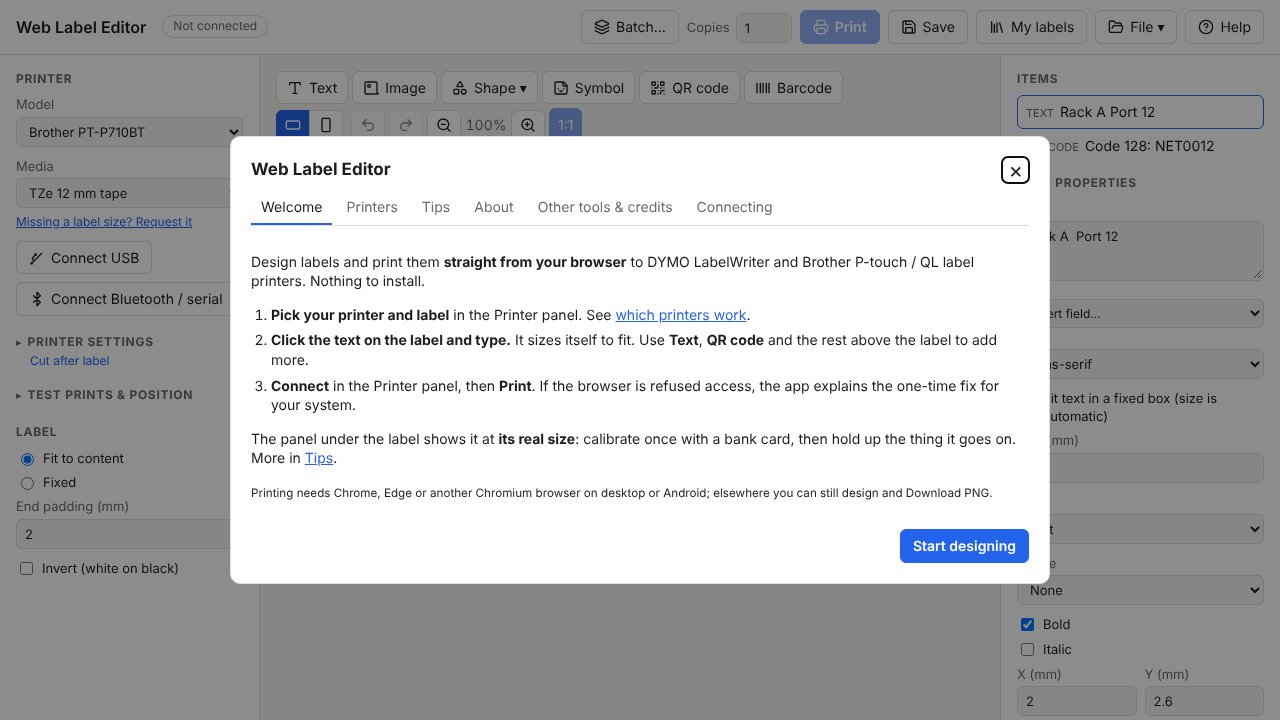
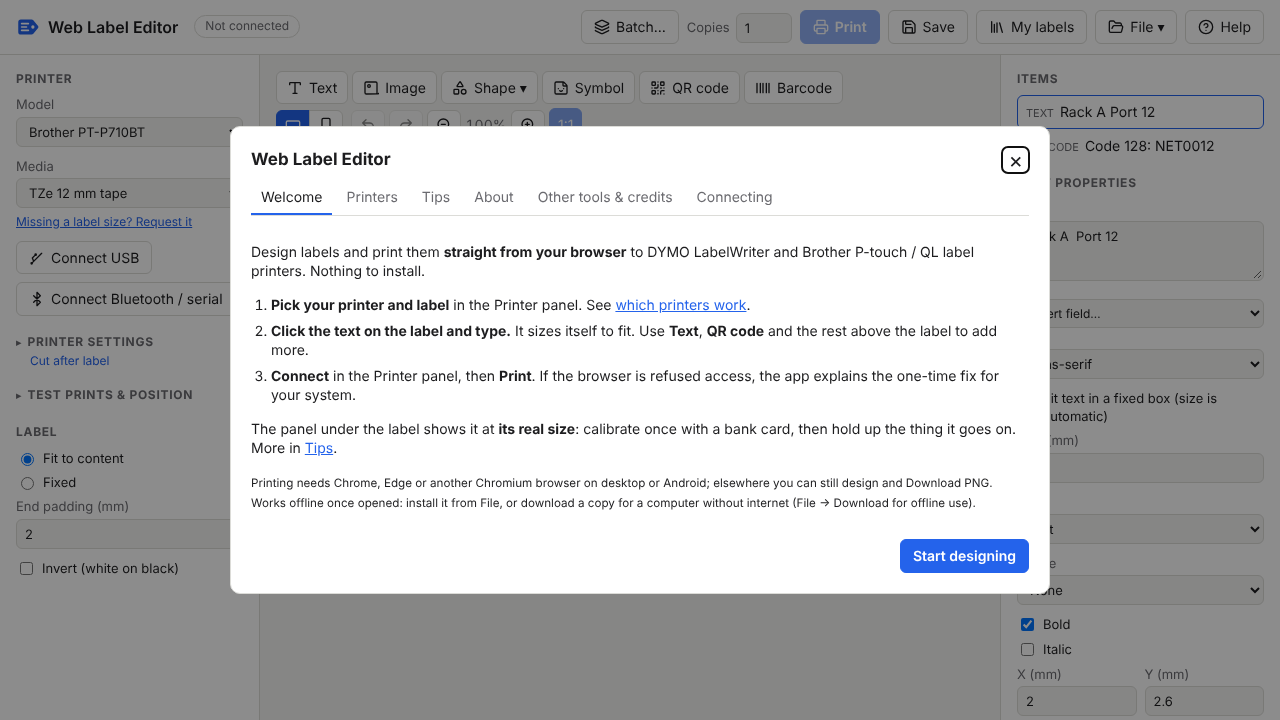
Offline: installable, cached, and a download with start and udev scripts
- The published site caches itself (sw.js, registered on https only):
  after one visit it opens without a network, refreshing in the background
  when online. A manifest makes it installable (File → Install as an app,
  when the browser offers it). sw.js's file list is generated by npm run
  docs from scripts/app-files.mjs and checked by a test.
- File → Download for offline use: web-label-editor.zip, built by npm run
  package and published with the site. It holds the app, start.sh (serves
  it on localhost, the secure page USB needs, on a fixed port so saved
  labels stay, and opens it in Chromium, Chrome, Edge or Brave),
  install-udev-rules.sh (uaccess for DYMO and Brother USB devices, with
  --remove) and READ ME FIRST.txt.
- The deploy now copies the app's own file list, which also fixes the logo
  (icon.svg) missing from the live site.
- Browsers without WebUSB or Web Serial (Firefox, Safari): the welcome
  page, the Printer panel and the Print button say to open the page in
  Chromium, Chrome or Edge to print.
- The printer table notes what has been tried beyond a plain print: 600
  dpi on the LabelWriter 450; not yet 600 dpi or batches on the QL-570.

Claude-Session: https://claude.ai/code/session_01YQFkThD3TEfZZoGyfdA6sY

Changed region(s): [[0.1875, 0.1528, 0.8125, 0.7028], [0.1562, 0.7333, 0.8438, 0.825], [0.0, 0.0306, 0.2188, 0.0611]]

diff --git a/src/about.js b/src/about.js
@@ -22,7 +22,7 @@ const link = (href, text) => el('a', { href, textContent: text, target: '_blank'
 
 // The first thing a new user sees: three steps, and nothing else they must
 // read. Why and how it is built are on the About tab.
-function welcome(go) {
+function welcome(go, canPrint = true) {
   const linkTo = (tab, text) => {
     const a = el('button', { type: 'button', className: 'linklike', textContent: text });
     a.onclick = () => go(tab);
@@ -37,10 +37,14 @@ function welcome(go) {
         ' and the rest above the label to add more.'),
       li(b('Connect'), ' in the Printer panel, then ', b('Print'), '. If the browser is refused access, the app explains the '
         + 'one-time fix for your system.')),
+    canPrint ? null : p(el('strong', { className: 'warn', textContent: 'This browser can\'t reach printers.' }),
+      ' Open this page in Chromium, Chrome or Edge to print; Firefox and Safari have no WebUSB or Web Serial. '
+      + 'You can design here and download a PNG.'),
     p('The panel under the label shows it at ', b('its real size'), ': calibrate once with a bank card, then hold up '
       + 'the thing it goes on. More in ', linkTo('tips', 'Tips'), '.'),
     p(el('small', {}, 'Printing needs Chrome, Edge or another Chromium browser on desktop or Android; elsewhere you can '
-      + 'still design and Download PNG.')),
+      + 'still design and Download PNG. Works offline once opened: install it from File, or download a copy for a '
+      + 'computer without internet (File → Download for offline use).')),
   ];
 }
 
@@ -235,7 +239,7 @@ export function openAbout(dialog, ctx) {
     close.onclick = () => dialog.close();
     const done = el('button', { type: 'button', className: 'primary', textContent: tab === 'welcome' ? 'Start designing' : 'Close' });
     done.onclick = () => dialog.close();
-    const body = { welcome: () => welcome(go), printers: () => printers(ctx.models), tips, about: () => about(go), others }[tab]();
+    const body = { welcome: () => welcome(go, ctx.canPrint !== false), printers: () => printers(ctx.models), tips, about: () => about(go), others }[tab]();
     dialog.replaceChildren(
       el('header', {}, el('h2', { textContent: 'Web Label Editor' }), close),
       tabs,

diff --git a/src/app.js b/src/app.js
@@ -1205,7 +1205,10 @@ function buildSetup() {
   }).slice(0, transport ? 1 : undefined));
   $('btn-detect').hidden = !(m.queryStatus && transport);
   $('btn-print').disabled = !transport;
-  $('btn-print').title = transport ? '' : 'Connect the printer first (in the Printer panel)';
+  const canPrint = support.usb || support.serial;
+  $('browser-note').hidden = canPrint;
+  $('btn-print').title = transport ? '' : canPrint ? 'Connect the printer first (in the Printer panel)'
+    : 'This browser can\'t reach printers: open the page in Chromium, Chrome or Edge to print';
 }
 
 function buildAdjust() {
@@ -3602,6 +3605,26 @@ function wire() {
 if (!support.usb && !support.serial) {
   showBanner('This browser cannot talk to printers directly (WebUSB / Web Serial need Chrome, Edge or another Chromium browser). You can still design labels and download them as PNG.');
 }
+
+// Offline: the published site caches itself (sw.js) so it opens without a
+// network after the first visit, and can be installed as an app. Not on
+// plain http (a local copy or development), which has its files already.
+if ('serviceWorker' in navigator && location.protocol === 'https:') {
+  navigator.serviceWorker.register('sw.js').catch(() => {});
+}
+let installPrompt = null;
+window.addEventListener('beforeinstallprompt', (e) => {
+  e.preventDefault();
+  installPrompt = e;
+  $('btn-install').hidden = false;
+});
+$('btn-install').onclick = async () => {
+  if (!installPrompt) return;
+  installPrompt.prompt();
+  await installPrompt.userChoice.catch(() => {});
+  installPrompt = null;
+  $('btn-install').hidden = true;
+};
 // ---------- My labels and print history ----------
 
 // A small preview image of a design, for the library and history.
@@ -3681,7 +3704,7 @@ function showLibrary(tab) {
 }
 
 function showAbout(tab) {
-  openAbout($('about-dialog'), { models: MODELS, tab, onConnectHelp: () => showUsbHelp() });
+  openAbout($('about-dialog'), { models: MODELS, tab, canPrint: support.usb || support.serial, onConnectHelp: () => showUsbHelp() });
 }
 
 // Welcome page on the first visit.

diff --git a/sw.js b/sw.js
@@ -1,0 +1,70 @@
+// SPDX-License-Identifier: GPL-3.0-or-later
+// Offline copy of the app: every file is cached on the first visit, and
+// served from the cache from then on, refreshed in the background whenever
+// the network is there (so an update shows on the next visit).
+
+const CACHE = 'web-label-editor';
+
+// app-files:start: generated by `npm run docs`; do not edit by hand
+const FILES = [
+  'index.html',
+  'style.css',
+  'icon.svg',
+  'manifest.webmanifest',
+  'src/about.js',
+  'src/app.js',
+  'src/calibration.js',
+  'src/catalog.js',
+  'src/codes/barcode.js',
+  'src/codes/qr.js',
+  'src/compat.js',
+  'src/credits.js',
+  'src/fields.js',
+  'src/help.js',
+  'src/icons.js',
+  'src/layout.js',
+  'src/library.js',
+  'src/lucide.js',
+  'src/others.js',
+  'src/printers/brother-ptouch.js',
+  'src/printers/brother-ql.js',
+  'src/printers/bytes.js',
+  'src/printers/dymo-labelwriter.js',
+  'src/printers/generic.js',
+  'src/printers/models.js',
+  'src/recfile.js',
+  'src/render.js',
+  'src/report.js',
+  'src/rolls.js',
+  'src/screen.js',
+  'src/transport.js',
+  'src/undo.js',
+  'catalog/media.rec',
+  'catalog/printers.rec',
+];
+// app-files:end
+
+self.addEventListener('install', (event) => {
+  event.waitUntil(caches.open(CACHE).then((cache) => cache.addAll(['./', ...FILES])).then(() => self.skipWaiting()));
+});
+
+self.addEventListener('activate', (event) => {
+  event.waitUntil(self.clients.claim());
+});
+
+self.addEventListener('fetch', (event) => {
+  const { request } = event;
+  if (request.method !== 'GET' || new URL(request.url).origin !== self.location.origin) return;
+  event.respondWith(caches.open(CACHE).then(async (cache) => {
+    const cached = await cache.match(request, { ignoreSearch: true });
+    const fresh = fetch(request).then((response) => {
+      if (response.ok) cache.put(request, response.clone());
+      return response;
+    });
+    if (cached) {
+      event.waitUntil(fresh.catch(() => {}));
+      return cached;
+    }
+    return fresh;
+  }));
+});

diff --git a/index.html b/index.html
@@ -6,6 +6,8 @@
   <title>Web Label Editor</title>
   <meta name="description" content="Design labels and print them straight to DYMO LabelWriter and Brother P-touch printers from the browser, including continuous rolls.">
   <link rel="icon" href="icon.svg" type="image/svg+xml">
+  <link rel="manifest" href="manifest.webmanifest">
+  <meta name="theme-color" content="#2463eb">
   <link rel="stylesheet" href="style.css">
 </head>
 <body>
@@ -29,6 +31,8 @@
           <button id="btn-export" role="menuitem" data-icon="saveFile">Save file…</button>
           <button id="btn-lib-saveas" role="menuitem" data-icon="labels">Save as new label…</button>
           <button id="btn-png" role="menuitem" data-icon="png">Download PNG</button>
+          <button id="btn-install" role="menuitem" data-icon="saveFile" hidden>Install as an app</button>
+          <a id="btn-offline" role="menuitem" data-icon="saveFile" href="https://mofosyne.github.io/web-label-editor/web-label-editor.zip" download>Download for offline use (.zip)</a>
         </div>
       </details>
       <input id="import-file" type="file" accept="application/json,.json" hidden>
@@ -57,6 +61,9 @@
       </div>
       <div class="row" id="connect-buttons"></div>
       <button id="btn-detect" hidden>Detect loaded tape</button>
+      <p id="browser-note" class="note browser-note" hidden>This browser can't reach printers: open this page in
+        <strong>Chromium, Chrome or Edge</strong> to print (Firefox and Safari have no WebUSB or Web Serial).
+        You can still design labels and download a PNG.</p>
 
       <details id="printer-settings" class="section">
         <summary><h2>Printer settings</h2> <span id="printer-summary" class="state"></span></summary>

diff --git a/style.css b/style.css
@@ -190,7 +190,7 @@ dialog.help .row { justify-content: flex-end; margin: 0; }
 .toolbar > button { padding: 6px 10px; }
 /* Icons in buttons (Lucide, see lucide.js), before the name if there is one. */
 svg.ico { width: 16px; height: 16px; vertical-align: -3px; flex: none; }
-button:not(.icon) > svg.ico, summary > svg.ico { margin-right: 6px; }
+button:not(.icon) > svg.ico, summary > svg.ico, .menu-list a > svg.ico { margin-right: 6px; }
 .icon > svg.ico { display: block; margin: 0 auto; }
 dialog.symbols .grid button > svg.ico { width: 22px; height: 22px; margin: 0 auto; display: block; }
 dialog.symbols input[type="search"] { width: 100%; box-sizing: border-box; margin: 4px 0 6px; }
@@ -305,7 +305,9 @@ dialog.symbols .grid { display: flex; flex-wrap: wrap; gap: 4px; margin: 4px 0 1
 dialog.symbols .grid button { min-width: 38px; height: 38px; font-size: 18px; padding: 0 6px; }
 dialog.symbols h3 { margin: 8px 0 2px; font-size: 13px; }
 details.menu .menu-list button { border: none; background: none; text-align: left; padding: 7px 10px; border-radius: 5px; }
-details.menu .menu-list button:hover { background: var(--stage); }
+details.menu .menu-list button:hover, details.menu .menu-list a:hover { background: var(--stage); }
+details.menu .menu-list a { color: inherit; text-decoration: none; padding: 7px 10px; border-radius: 5px; font-size: inherit; }
+.browser-note { color: var(--warn-text); font-weight: 600; }
 .pill.muted { color: var(--muted); }
 .topbar h1 { display: flex; align-items: center; gap: 8px; }
 .topbar h1 .logo { display: block; }

diff --git a/src/printers/models.js b/src/printers/models.js
@@ -150,7 +150,12 @@ function brotherQL(name, { editorLite = false, status = 'experimental' } = {}) {
     brand: 'Brother QL',
     name: `Brother ${name}`,
     status,
-    devices: [{ name: `Brother ${name}`, status }],
+    // What has been tried on hardware, beyond the plain print (see compat.js).
+    devices: [{
+      name: `Brother ${name}`,
+      status,
+      note: status === 'tested' && params.highRes ? 'printing and cutting tested; 300 × 600 dpi and batches not yet' : undefined,
+    }],
     family: 'brother-ql',
     protocol: 'Brother QL raster',
     // The strip's right end prints first (see brother-ql.js).
@@ -190,7 +195,7 @@ export const MODELS = {
     name: 'DYMO LabelWriter 450 / 450 Turbo / 400',
     status: 'tested',
     devices: [
-      { name: 'DYMO LabelWriter 450', status: 'tested' },
+      { name: 'DYMO LabelWriter 450', status: 'tested', note: '300 × 600 dpi tested' },
       { name: 'DYMO LabelWriter 450 Turbo', status: 'experimental' },
       { name: 'DYMO LabelWriter 400 / 400 Turbo', status: 'experimental' },
       { name: 'DYMO LabelWriter 450 Duo (label side)', status: 'experimental' },

diff --git a/test/readme.test.js b/test/readme.test.js
@@ -2,9 +2,14 @@
 import { test } from 'node:test';
 import assert from 'node:assert/strict';
 import { readFileSync } from 'node:fs';
-import { renderReadme } from '../scripts/update-readme.mjs';
+import { renderReadme, renderSw } from '../scripts/update-readme.mjs';
 
 test('README compatibility table matches the code (run `npm run docs` to update)', () => {
   const readme = readFileSync(new URL('../README.md', import.meta.url), 'utf8');
   assert.equal(readme, renderReadme(readme));
+});
+
+test('sw.js caches every app file (run `npm run docs` to update)', () => {
+  const sw = readFileSync(new URL('../sw.js', import.meta.url), 'utf8');
+  assert.equal(sw, renderSw(sw));
 });

diff --git a/src/compat.js b/src/compat.js
@@ -55,7 +55,8 @@ export function compatRows(models) {
     for (const model of Object.values(models).filter((m) => m.brand === brand)) {
       for (const d of model.devices) {
         rows.push({
-          brand, name: d.name, status: d.status, protocol: model.protocol ?? '', connection: d.connection ?? connection(model), media: mediaSummary(model),
+          brand, name: d.name, status: d.status, protocol: model.protocol ?? '', connection: d.connection ?? connection(model),
+          media: d.note ? `${mediaSummary(model)}; ${d.note}` : mediaSummary(model),
         });
       }
     }

diff --git a/README.md b/README.md
@@ -112,7 +112,7 @@ right, copy it; don't make users discover the same problems again.
 <!-- compat:start: generated by `npm run docs` from src/printers/models.js and src/compat.js; do not edit by hand -->
 | Printer | Status | Protocol | Connection | Labels / notes |
 |---|---|---|---|---|
-| DYMO LabelWriter 450 | ✅ Tested | DYMO LabelWriter raster | USB | LabelWriter labels, up to 62 mm |
+| DYMO LabelWriter 450 | ✅ Tested | DYMO LabelWriter raster | USB | LabelWriter labels, up to 62 mm; 300 × 600 dpi tested |
 | DYMO LabelWriter 450 Turbo | 🧪 Experimental | DYMO LabelWriter raster | USB | LabelWriter labels, up to 62 mm |
 | DYMO LabelWriter 400 / 400 Turbo | 🧪 Experimental | DYMO LabelWriter raster | USB | LabelWriter labels, up to 62 mm |
 | DYMO LabelWriter 450 Duo (label side) | 🧪 Experimental | DYMO LabelWriter raster | USB | LabelWriter labels, up to 62 mm |
@@ -137,7 +137,7 @@ right, copy it; don't make users discover the same problems again.
 | Brother QL-500 | 🧪 Experimental | Brother QL raster | USB | DK rolls and labels, up to 62 mm |
 | Brother QL-550 | 🧪 Experimental | Brother QL raster | USB | DK rolls and labels, up to 62 mm |
 | Brother QL-560 | 🧪 Experimental | Brother QL raster | USB | DK rolls and labels, up to 62 mm |
-| Brother QL-570 | ✅ Tested | Brother QL raster | USB | DK rolls and labels, up to 62 mm |
+| Brother QL-570 | ✅ Tested | Brother QL raster | USB | DK rolls and labels, up to 62 mm; printing and cutting tested; 300 × 600 dpi and batches not yet |
 | Brother QL-580N | 🧪 Experimental | Brother QL raster | USB | DK rolls and labels, up to 62 mm |
 | Brother QL-650TD | 🧪 Experimental | Brother QL raster | USB | DK rolls and labels, up to 62 mm |
 | Brother QL-700 | 🧪 Experimental | Brother QL raster | USB | DK rolls and labels, up to 62 mm |
@@ -166,6 +166,24 @@ reference implementation, but nobody has printed on that model with this app yet
 
 The same table is in the app under **Help → Printers**. Adding a printer is
 described [below](#adding-a-printer).
+
+## Without internet
+
+- **Installed or cached:** open the site once in Chromium, Chrome or Edge
+  and it keeps working offline (it caches itself). *File → Install as an
+  app* gives it its own window and launcher icon.
+- **On a computer that has never been online**, e.g. from a USB stick:
+  *File → Download for offline use* (or
+  [web-label-editor.zip](https://mofosyne.github.io/web-label-editor/web-label-editor.zip))
+  is the whole app with two scripts. On Linux, `sudo ./install-udev-rules.sh`
+  once (USB access for DYMO and Brother printers, `--remove` to undo), then
+  `./start.sh`: it serves the app on this computer only, at
+  `http://localhost:8737/`, and opens it in Chromium, Chrome or Edge. It
+  needs Python 3, which most Linux systems have. Opening `index.html`
+  directly doesn't work: browsers only allow USB on secure pages, and
+  `localhost` is one, a file isn't.
+- **Firefox and Safari** can design and download a PNG, but can't print:
+  they have no WebUSB or Web Serial. The app says so where it matters.
 
 ## Getting started
 
@@ -619,9 +637,14 @@ Plain HTML and JavaScript modules, no build step.
 ```sh
 npm run serve   # http://localhost:8000
 npm test        # unit tests
-npm run docs    # regenerate this README's generated sections
+npm run docs    # regenerate this README's generated sections and sw.js's file list
+npm run package # dist/: the site as deployed, and the offline download (zip)
 npm run screenshots  # regenerate docs/screenshots (needs Playwright + Chromium)
 ```
+
+The published site registers a service worker (`sw.js`) that caches the app
+for offline use; it isn't registered on plain `http`, so local development
+always loads the files as they are.
 
 Tests check every encoder's command stream byte by byte against its reference
 implementation's logic, the catalogue against `recsel`/`recfix` (when
@@ -629,7 +652,7 @@ recutils is installed), the layout and undo logic, and that this README's
 generated sections match the code.
 
 `.github/workflows/ci.yml` runs the tests on every push and pull request and
-deploys `main` to GitHub Pages.
+deploys `main` to GitHub Pages, with the offline zip built by `npm run package`.
 
 ## Other tools
 
